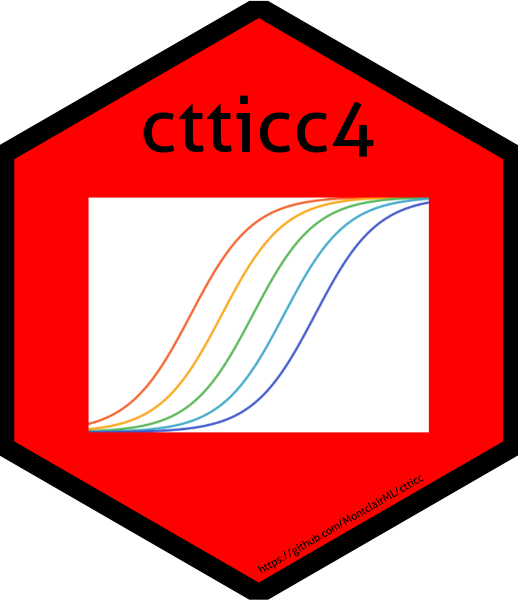
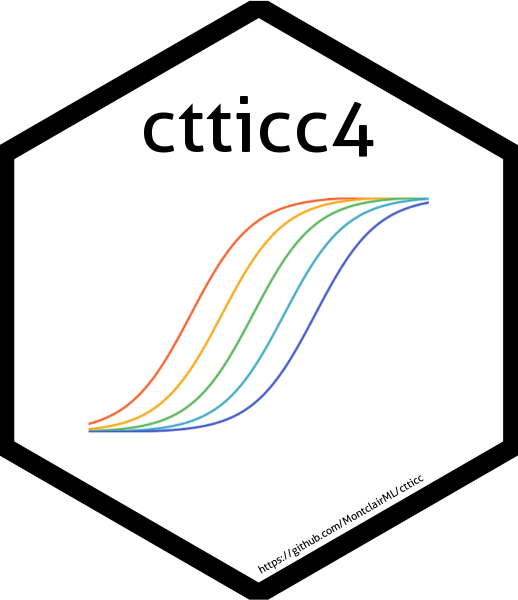
hexsticker (#4)

diff --git a/README.md b/README.md
@@ -1,5 +1,9 @@
 # ctticc
 
+<div align="center">
+![](ctticc.png)
+</div>
+
 Item characteristic curves (ICC's) are visual indicators of important attributes of assessment items - most commonly *difficulty* and *discrimination*. Assessment specialists who examine ICC's usually do so from within the psychometric framework of either Item Response Theory (IRT) or Rasch modeling. This `R` package provides an extension of this tradition into the Classical Test Theory (CTT) framework. The package has a `psych` dependency that facilitate the estimation of CTT-generated difficulty (_pseudob_) and discrimination (_pseudoa_) "parameters" from a `psych::alpha` object, and then plots the ICCs. 
 
 A handy compilation of how to interpret IRT parameters is [located here](https://wnarifin.github.io/simpler/irt_2PL.html).
